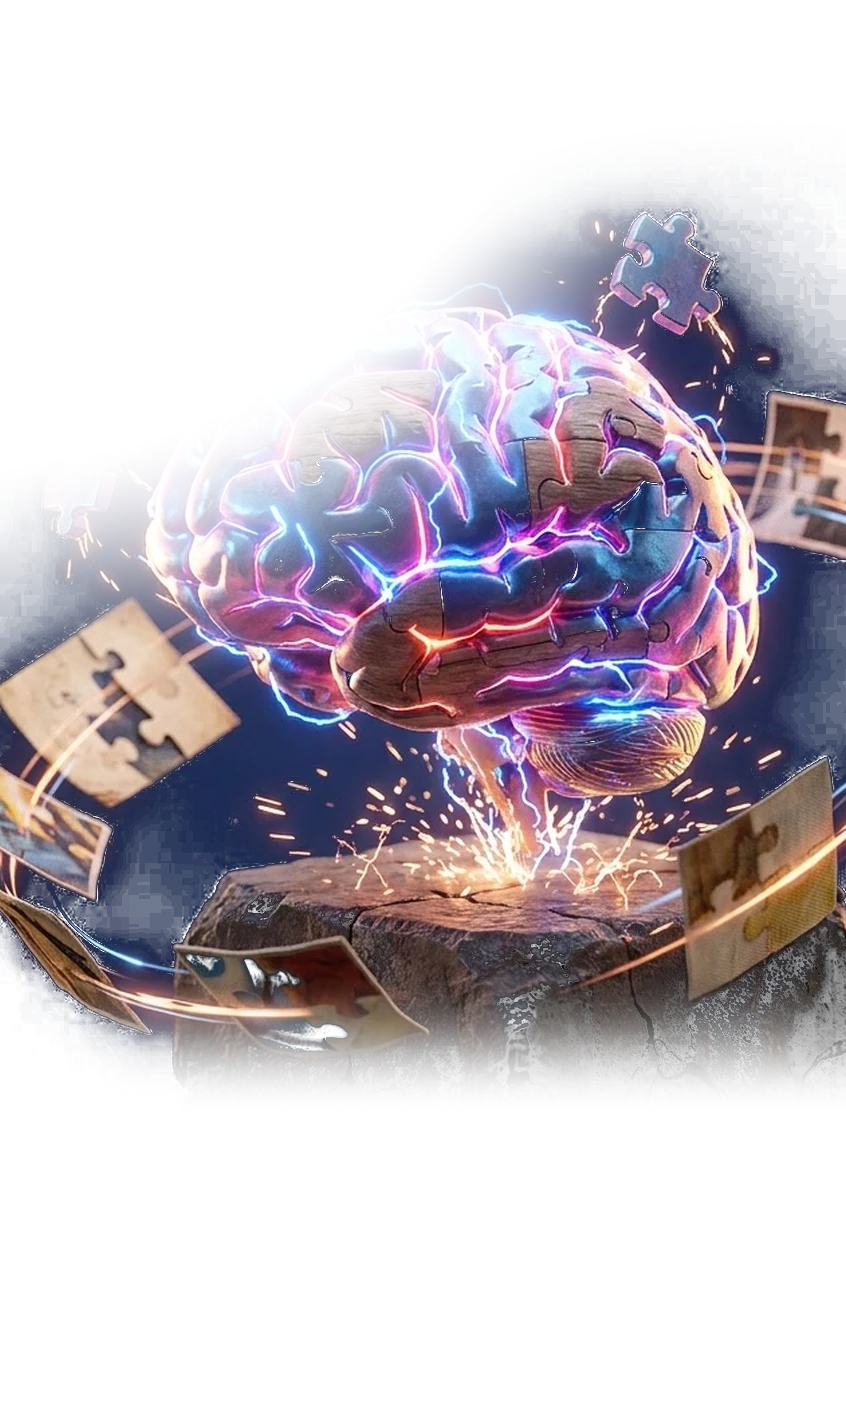
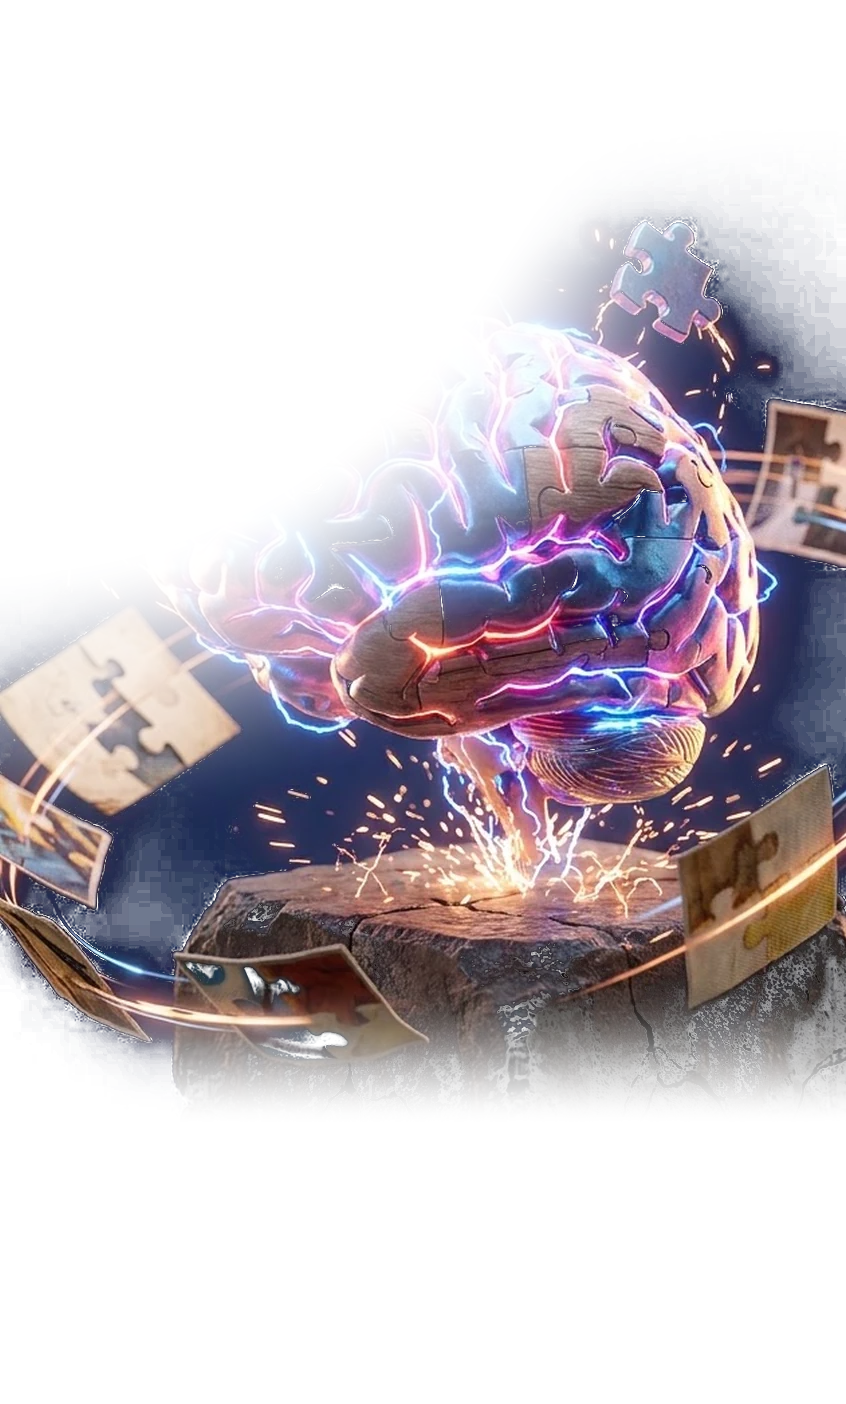
Games page: text back in place, each scene tucked like Case Files, planets 60% smaller with the dots just above, arc lower
Claude-Session: https://claude.ai/code/session_01M1zZESrXzYjoRQjWUzRNCF

diff --git a/src/features/games/fit.ts b/src/features/games/fit.ts
@@ -5,7 +5,7 @@
 export const W = 282;
 export const BODY_TOP = 72; // the shell's content area starts here
 export const SHIFT = 20; // decision 63: ring, planets, dots and art anchor sit 20px lower
-export const ARC_DROP = 32; // 2026-10-13: ring, planets and dots only (not the art) sit this much lower, close to the nav
+export const ARC_DROP = 46; // 2026-10-13: ring, planets and dots only (not the art) sit this much lower, close to the nav
 export const DOTS_TOP = 398 + SHIFT; // screen y of the swipe dots
 export const ART_B = DOTS_TOP + 66; // bottom of the art box (fitArc: dots top + 66)
 // 2026-10-05: the ring's fill is gone, so each drawing moves down and fades just above the nav bar.
@@ -42,5 +42,8 @@ export function fitArt(key: string): ArtFit {
 // Offsets -5..5 so 10 games wrap; only -3..3 are visible, exactly as with 8.
 export const SLOT_OFF = [-5, -4, -3, -2, -1, 0, 1, 2, 3, 4, 5];
 export const SLOT_ANGLE = [-44, -35, -26, -17, -8, 0, 8, 17, 26, 35, 44];
-export const SLOT_SIZE = [22, 22, 22, 29, 35, 48, 35, 29, 22, 22, 22];
+// 2026-10-18: planets 60% smaller (Yazan)
+export const SLOT_SIZE = [9, 9, 9, 12, 14, 19, 14, 12, 9, 9, 9];
+/** Body y of the swipe dots: just above the selected planet (Yazan 2026-10-18). */
+export const DOTS_Y = RING_CY - RING_R - 2 - SLOT_SIZE[5] / 2 - 12;
 export const SLOT_OPACITY = [0, 0, 0.75, 1, 1, 1, 1, 1, 0.75, 0, 0];

diff --git a/src/features/games/Ring.tsx b/src/features/games/Ring.tsx
@@ -6,7 +6,7 @@ import { GAMES } from '@/data/games';
 import { DESIGN_H, u } from '@/theme/scale';
 import type { Mode } from '@/theme/tokens';
 
-import { ARC_DROP, BODY_TOP, DOTS_TOP, RING_CX, RING_CY, RING_R, W } from './fit';
+import { BODY_TOP, DOTS_Y, RING_CX, RING_CY, RING_R, W } from './fit';
 import { wrapOff } from './Planet';
 
 const RING = {
@@ -56,6 +56,6 @@ export function Dots({ pos, onPick }: { pos: SharedValue<number>; onPick: (j: nu
 
 const s = StyleSheet.create({
   ring: { position: 'absolute', left: 0 },
-  dots: { position: 'absolute', left: 0, right: 0, top: u(DOTS_TOP + ARC_DROP - BODY_TOP), height: u(4), flexDirection: 'row', justifyContent: 'center', gap: u(4) },
+  dots: { position: 'absolute', left: 0, right: 0, top: u(DOTS_Y), height: u(4), flexDirection: 'row', justifyContent: 'center', gap: u(4) },
   dot: { height: u(4), borderRadius: u(4) },
 });

diff --git a/src/features/games/GamePage.tsx b/src/features/games/GamePage.tsx
@@ -56,7 +56,7 @@ export function GamePage({ game, j, pos, active }: { game: Game; j: number; pos:
 }
 
 const s = StyleSheet.create({
-  info: { position: 'absolute', left: u(16), right: u(16), top: u(22) },
+  info: { position: 'absolute', left: u(16), right: u(16), top: u(59) },
   ttl: { fontFamily: F.display, fontSize: u(32), lineHeight: u(28.8), letterSpacing: u(-0.64) },
   sub: { marginTop: u(8), fontFamily: F.displayItalic, fontSize: u(13), lineHeight: u(17) },
   desc: { marginTop: u(7), marginBottom: u(2), maxWidth: u(190), fontFamily: F.body, fontSize: u(11), lineHeight: u(15.95) },

diff --git a/scripts/bake-game-art-full.py b/scripts/bake-game-art-full.py
@@ -18,8 +18,15 @@ ROOT = os.path.dirname(os.path.dirname(os.path.abspath(__file__)))
 W, SH, TOP, END = 282, 615, 72, 540  # design screen, body top, art end (src/features/games/fit.ts)
 SCALE = 3
 NUDGE = 0.7  # 0 = keep the left edge, 1 = keep the right edge, when the picture is wider than the screen
-UP = 30  # the scene sits this much higher than the picture's own place (2026-10-18: lifted, more overlap)
-CLEAR = 466  # screen y where the art is fully gone, a clear gap above the planets on the arc
+# Each scene moves up by its own amount so its upper left meets the text corner the way Case Files does (Yazan 2026-10-18).
+# CORNER: picture row (of 1376) where the scene's upper-left part begins; Case Files is the reference.
+CORNER = {
+    'case-files-unsolved': 340, 'the-riddler': 450, 'the-conqueror': 450, 'the-wheels-of-chaos': 480,
+    'the-diagnostic-pursuit': 500, 'the-silent-artist': 520, 'trust-me-not': 560,
+    'nova-medicordle': 600, 'nova-crossword': 600, 'the-streak-master': 620,
+}
+TEXT_DROP = 37  # the title block sits this much lower than when the curve was tuned
+CLEAR = 490  # screen y where the art is fully gone, a clear gap above the swipe dots and planets
 
 # Scene band in picture px (of 1376): fade in over [a, b] at the top and out over [c, d] at the bottom.
 # a/d sit on (or just inside) any hard band edge, so no straight line survives.
@@ -48,7 +55,8 @@ for k, (a, b, c, d) in BAND.items():
     pw, ph = src.size
     s = max(W / pw, SH / ph)  # design px per picture px
     ox = (W - pw * s) * NUDGE
-    oy = (SH - ph * s) / 2 - UP
+    up = min(55, -7 + 0.7 * (CORNER[k] - 340) * s)
+    oy = (SH - ph * s) / 2 - up
     ow, oh = W * SCALE, (END - TOP) * SCALE
     X, Y = np.meshgrid((np.arange(ow) + 0.5) / SCALE, TOP + (np.arange(oh) + 0.5) / SCALE)
     # sample the picture: resize the whole thing, then crop the body window
@@ -58,7 +66,7 @@ for k, (a, b, c, d) in BAND.items():
     rgb = np.asarray(canvas).astype(np.float64) / 255
     py = (Y - oy) / s  # picture row under each pixel
     band = smooth(py, a + 6, b) * (1 - smooth(py, c, d - 6))
-    curve = smooth(np.hypot(X / W, Y / (0.52 * SH)), 0.7, 1.0)  # clears the title corner, scene tucks under the text
+    curve = smooth(np.hypot(X / W, (Y - TEXT_DROP) / (0.52 * SH)), 0.7, 1.0)  # clears the title corner, scene tucks under the text
     nav = 1 - smooth(Y, CLEAR - 56, CLEAR)
     # the picture's own navy sky melts away, so no tinted box is left where it meets the app navy
     sky = np.median(np.asarray(src)[:20].reshape(-1, 3), axis=0) / 255
